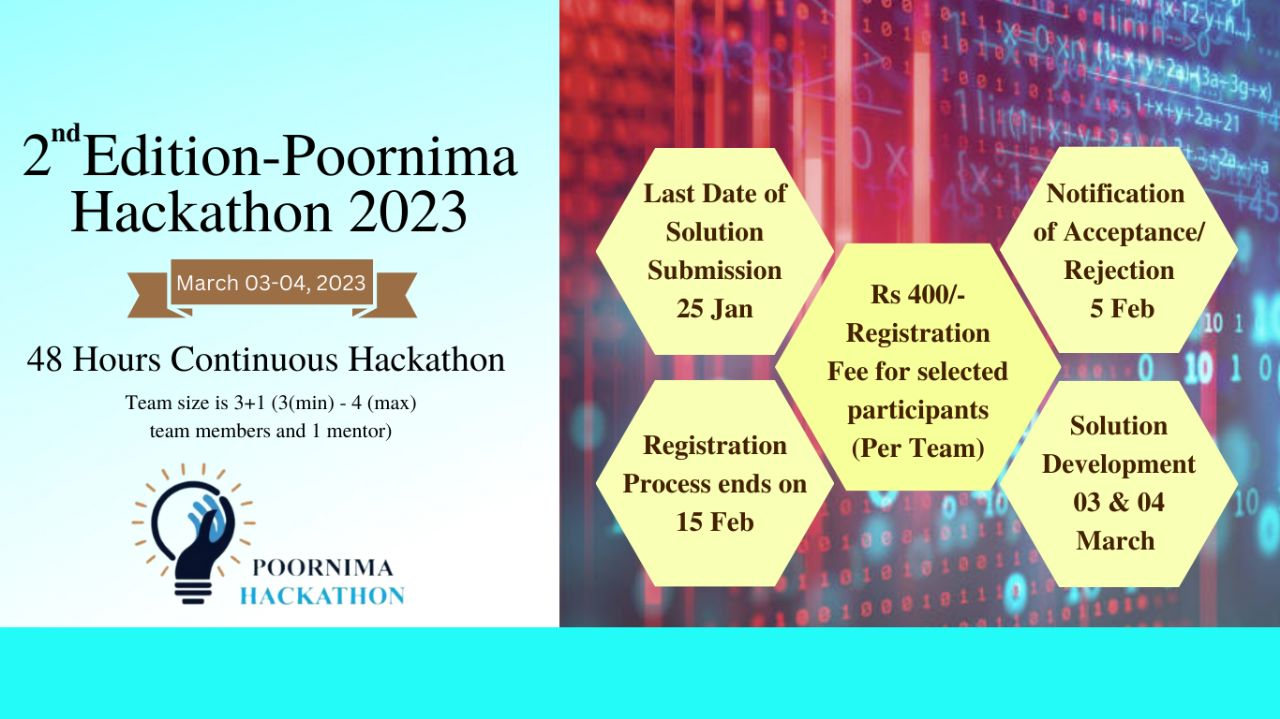
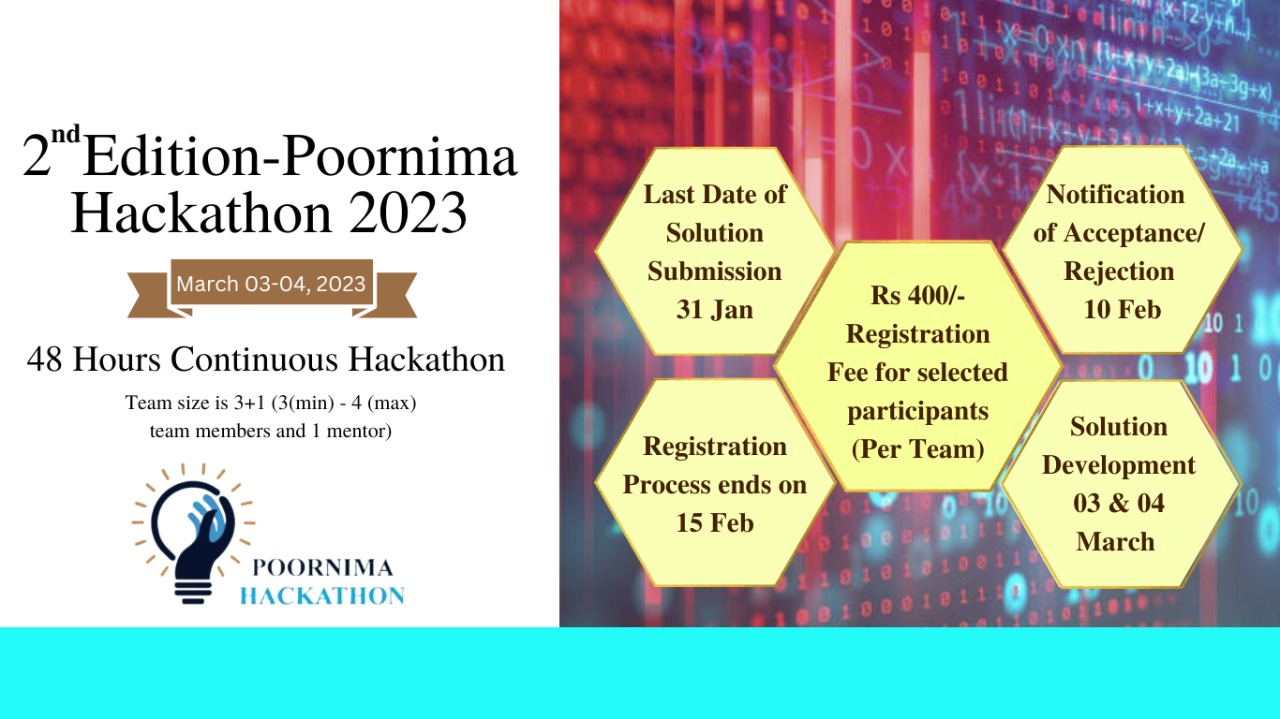
bugs

diff --git a/index.html b/index.html
@@ -61,6 +61,9 @@
   }
 
   @media only screen and (max-width: 600px) {
+    #SPAN_64{
+      display: none;
+    }
     #resppp {
       padding-top: 25px;
       padding-bottom: 10px;
@@ -250,7 +253,7 @@
         End Home SliderEnd
         ==================================== -->
     <marquee width="auto" direction="fadeInLeft" height="21px">
-      Last date for abstract solution submission is 25 January, 2023
+      Last date for abstract solution submission is 31<sup>th</sup> January, 2023
     </marquee>
     <!-- about section -->
     <section id="about">
@@ -318,7 +321,7 @@
                   self-reliant india,remodeling commence.
                 </p>
               </div>
-              <a href="#" class="btn btn-border btn-effect pull-center">Submit Idea Now</a>
+              <a href="https://forms.gle/LeSkZZqwhYNBUmd36" class="btn btn-border btn-effect pull-center">Submit Idea Now</a>
             </div>
           </div>
         </div>
@@ -989,7 +992,7 @@
                 <div id="DIV_12">
                   <div id="DIV_13">
                     <p id="P_14">
-                      <span id="SPAN_15"><strong id="STRONG_16">31<sup>TH</sup> December</strong></span>
+                      <span id="SPAN_15"><strong id="STRONG_16">27<sup>TH</sup> December</strong></span>
                     </p>
                   </div>
                 </div>
@@ -1010,7 +1013,7 @@
                 <div id="DIV_26">
                   <div id="DIV_27">
                     <p id="P_28">
-                      <span id="SPAN_29">(Registrations close Jan. 25<sup>TH</sup>)</span>
+                      <span id="SPAN_29">(Registrations close Jan. 31<sup>TH</sup>)</span>
                     </p>
                   </div>
                 </div>
@@ -1021,7 +1024,7 @@
                 <div id="DIV_32">
                   <div id="DIV_33">
                     <p id="P_34">
-                      <span id="SPAN_35"><strong id="STRONG_36">1<sup>ST</sup></sup> &gt; 5<sup>TH</sup> FEBRUARY</strong></span>
+                      <span id="SPAN_35"><strong id="STRONG_36">5<sup>TH</sup></sup> - 10<sup>TH</sup> FEBRUARY</strong></span>
                     </p>
                   </div>
                 </div>
@@ -1053,7 +1056,7 @@
                 <div id="DIV_52">
                   <div id="DIV_53">
                     <p id="P_54">
-                      <span id="SPAN_55"><strong id="STRONG_56">5<sup>TH</sup> FEBRUARY</strong></span>
+                      <span id="SPAN_55"><strong id="STRONG_56">10<sup>TH</sup> FEBRUARY</strong></span>
                     </p>
                   </div>
                 </div>
@@ -1078,7 +1081,7 @@
                 <div id="DIV_68">
                   <div id="DIV_69">
                     <p id="P_70">
-                      <span id="SPAN_71"><strong id="STRONG_72">3<sup>TH</sup> &gt; 4<sup>TH</sup> MARCH</strong></span>
+                      <span id="SPAN_71"><strong id="STRONG_72">3<sup>TH</sup> - 4<sup>TH</sup> MARCH</strong></span>
                     </p>
                   </div>
                 </div>
@@ -1167,13 +1170,11 @@
                 <li><i class="lni-check-mark-circle"></i> The Team Name should be unique and not contain the name of
                   your institute in any form.
                 </li>
-
-
               </ul>
 
 
               <ul class="list-specification">
-                <li><i class="lni-check-mark-circle"></i> The <a href="approval-letter.pdf" target="_blank"> Approval
+                <li><i class="lni-check-mark-circle"></i> The <a href="https://drive.google.com/drive/u/6/folders/110ic_j1uvcszFshNT01bQI-00itdNFrK" target="_blank"> Approval
                     letter</a> should bear the seal of the college/ institute along with the signature of the
                   principal/dean/ institute director.
                 </li>

diff --git a/problemstatements.html b/problemstatements.html
@@ -76,6 +76,9 @@
   }
 
   @media only screen and (max-width: 600px) {
+    #SPAN_64{
+      display: none;
+    }
     #resppp {
       padding-top: 25px;
       padding-bottom: 10px;
@@ -165,7 +168,9 @@
           <li><a href="#prize">Prize</a></li>
           <li><a href="#testimonials">Sponsor</a></li>
           <!-- <li><a href="#gallery">Gallery</a></li> -->
-          <li><a href="#faq">FAQ</a></li>
+          <li><a href="#fq">FAQ</a></li>
+          <li><a href="#agenda">Agenda</a></li>
+
           <li><a href="#rules">Rules</a></li>
 
           <li><a href="#contact">Contact</a></li>
@@ -627,7 +632,7 @@
                 <div id="DIV_12">
                   <div id="DIV_13">
                     <p id="P_14">
-                      <span id="SPAN_15"><strong id="STRONG_16">31<sup>TH</sup> December</strong></span>
+                      <span id="SPAN_15"><strong id="STRONG_16">27<sup>TH</sup> December</strong></span>
                     </p>
                   </div>
                 </div>
@@ -648,7 +653,7 @@
                 <div id="DIV_26">
                   <div id="DIV_27">
                     <p id="P_28">
-                      <span id="SPAN_29">(Registrations close Jan. 25<sup>TH</sup>)</span>
+                      <span id="SPAN_29">(Registrations close Jan. 31<sup>TH</sup>)</span>
                     </p>
                   </div>
                 </div>
@@ -659,7 +664,7 @@
                 <div id="DIV_32">
                   <div id="DIV_33">
                     <p id="P_34">
-                      <span id="SPAN_35"><strong id="STRONG_36">1<sup>ST</sup></sup> &gt; 5<sup>TH</sup> FEBRUARY</strong></span>
+                      <span id="SPAN_35"><strong id="STRONG_36">5<sup>TH</sup></sup> - 10<sup>TH</sup> FEBRUARY</strong></span>
                     </p>
                   </div>
                 </div>
@@ -691,7 +696,7 @@
                 <div id="DIV_52">
                   <div id="DIV_53">
                     <p id="P_54">
-                      <span id="SPAN_55"><strong id="STRONG_56">5<sup>TH</sup> FEBRUARY</strong></span>
+                      <span id="SPAN_55"><strong id="STRONG_56">10<sup>TH</sup> FEBRUARY</strong></span>
                     </p>
                   </div>
                 </div>
@@ -716,7 +721,7 @@
                 <div id="DIV_68">
                   <div id="DIV_69">
                     <p id="P_70">
-                      <span id="SPAN_71"><strong id="STRONG_72">3<sup>TH</sup> &gt; 4<sup>TH</sup> MARCH</strong></span>
+                      <span id="SPAN_71"><strong id="STRONG_72">3<sup>TH</sup> - 4<sup>TH</sup> MARCH</strong></span>
                     </p>
                   </div>
                 </div>
@@ -811,7 +816,7 @@
 
 
               <ul class="list-specification">
-                <li><i class="lni-check-mark-circle"></i> The <a href="approval-letter.pdf" target="_blank"> Approval
+                <li><i class="lni-check-mark-circle"></i> The <a href="https://drive.google.com/drive/u/6/folders/110ic_j1uvcszFshNT01bQI-00itdNFrK" target="_blank"> Approval
                     letter</a> should bear the seal of the college/ institute along with the signature of the
                   principal/dean/ institute director.
                 </li>

diff --git a/js/countdown.js b/js/countdown.js
@@ -3,7 +3,7 @@ let dayBox = document.getElementById("day-box");
 let hrBox = document.getElementById("hr-box");
 let minBox = document.getElementById("min-box");
 let secBox = document.getElementById("sec-box");
-let endDate = new Date(2023, 0, 25, 00, 00);
+let endDate = new Date(2023, 0, 31, 00, 00);
 let endTime = endDate.getTime();
 
 function countdown() {

diff --git a/css/main.css b/css/main.css
@@ -4418,3 +4418,6 @@ textarea.form-control {
     font: 16px ibm-plex-sans, sans-serif;
 }/*#DIV_82:before*/
 
+#knowmorebtn{
+    display: none;
+}
